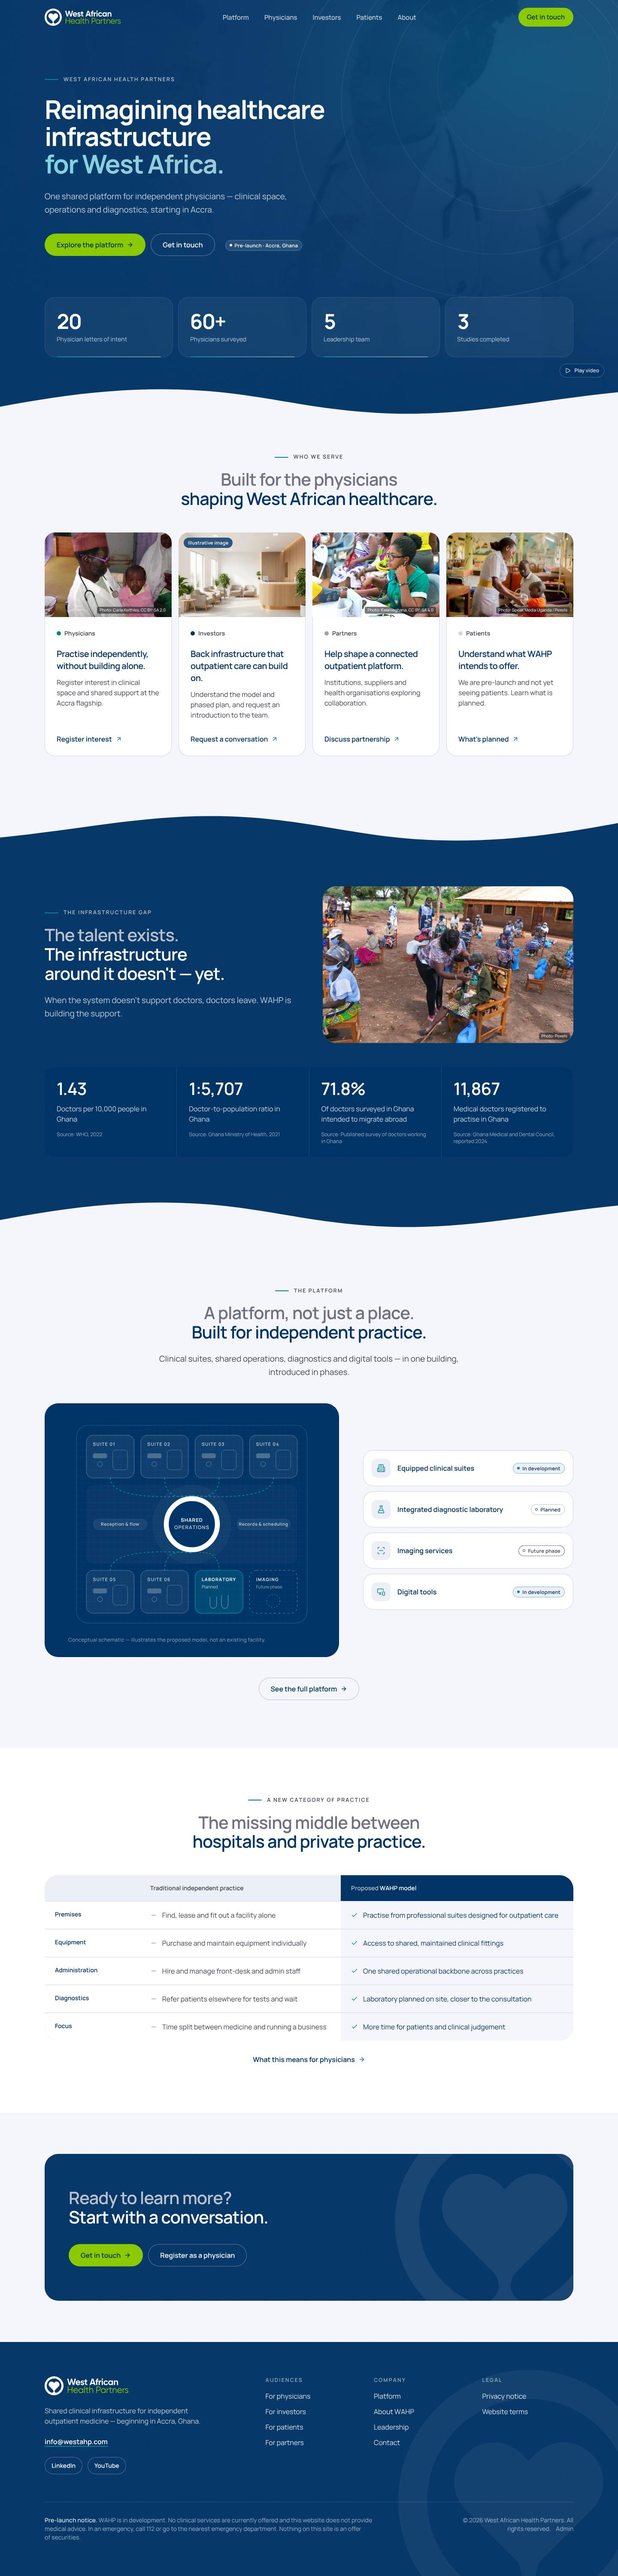
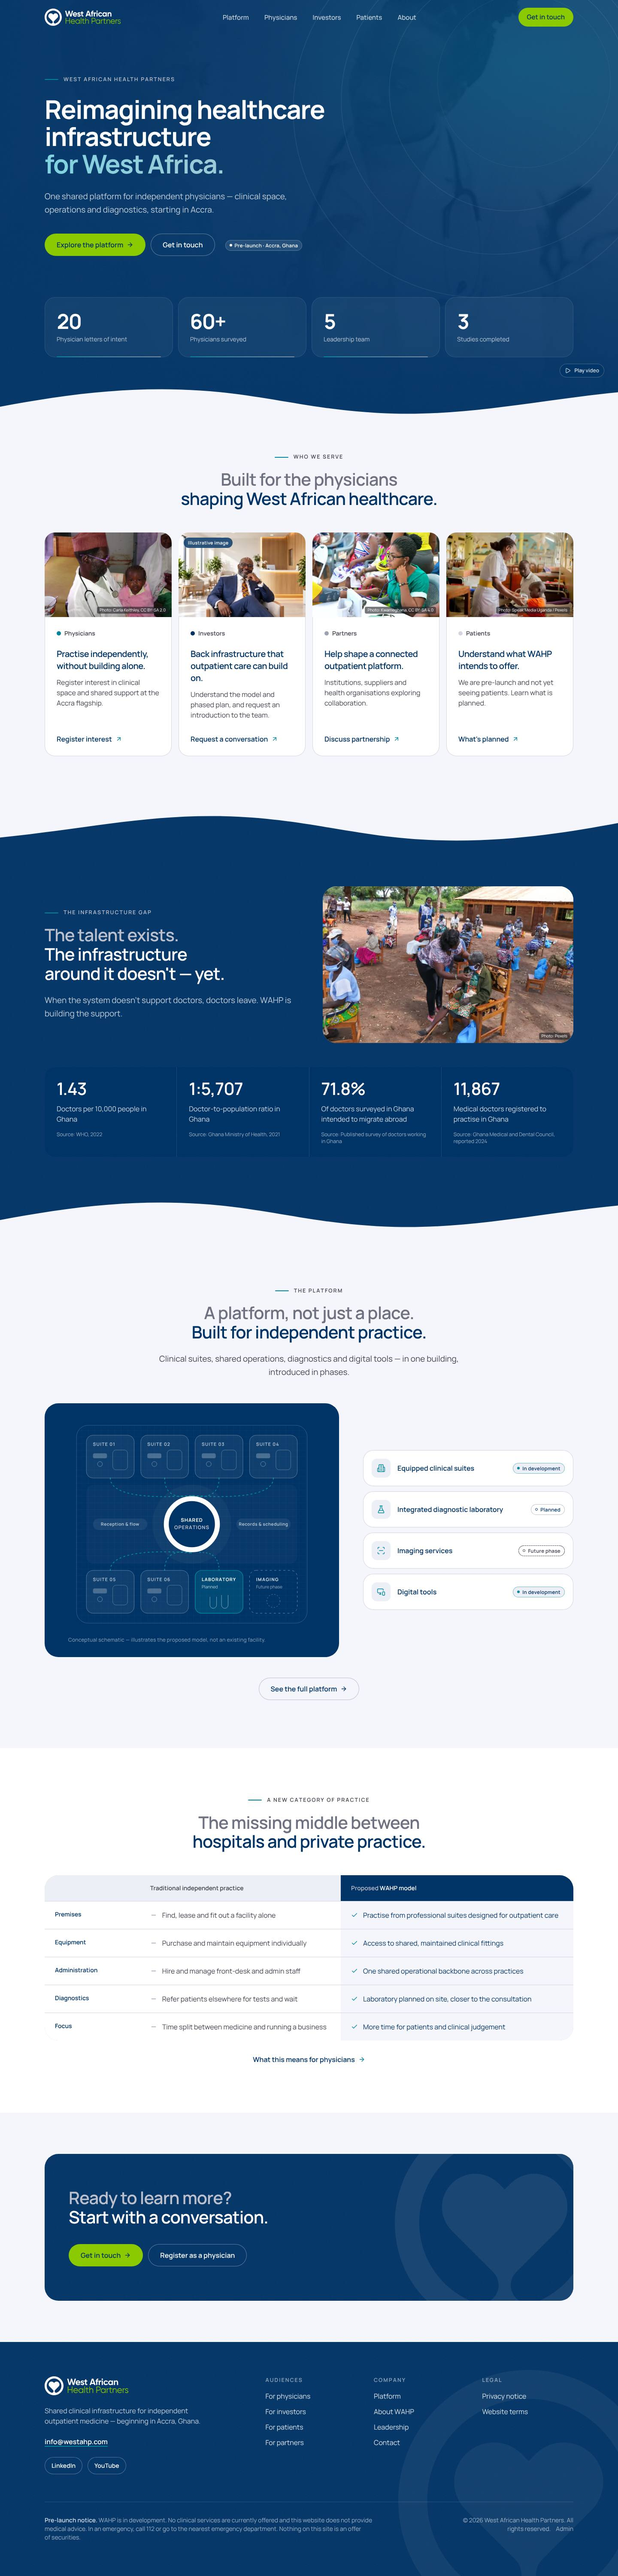
Use the owner's investor image on the Home investors card
Replaces the empty clinic-lobby photo with the owner-supplied image of an
investor in the lounge, badged "Illustrative image". The old
clinic-interior file is removed.

Claude-Session: https://claude.ai/code/session_01HnAJZsQvwk15KduVTL9xGz

Changed region(s): [[0.2812, 0.187, 0.5, 0.2494]]

diff --git a/src/components/ui/site-image.tsx b/src/components/ui/site-image.tsx
@@ -7,7 +7,7 @@ import patientJourney from "../../../public/images/photos/patient-journey.webp";
 import pillarLaboratory from "../../../public/images/photos/pillar-laboratory.webp";
 import pillarImaging from "../../../public/images/photos/pillar-imaging.webp";
 import patientPortrait from "../../../public/images/photos/patient-portrait.webp";
-import clinicInterior from "../../../public/images/photos/clinic-interior.webp";
+import investorLounge from "../../../public/images/photos/investor-lounge.webp";
 import doctorChildConsultation from "../../../public/images/photos/doctor-child-consultation.webp";
 import communityScreening from "../../../public/images/photos/community-bp-screening.webp";
 import clinicBpCheck from "../../../public/images/photos/clinic-bp-check.webp";
@@ -74,10 +74,11 @@ const images = {
     credit: "Photo: Unsplash",
     alt: "An older woman in a kente head wrap and face mask.",
   },
-  clinicInterior: {
-    src: clinicInterior,
+  investorLounge: {
+    src: investorLounge,
     kind: "illustrative",
-    alt: "A calm, light-filled clinic waiting area with a reception desk.",
+    position: "50% 35%",
+    alt: "A smiling man in a navy suit and kente-pattern tie sits in a light-filled clinic lounge with a reception desk behind him.",
   },
 
   doctorChildConsultation: {

diff --git a/src/components/sections/audience-paths.tsx b/src/components/sections/audience-paths.tsx
@@ -14,7 +14,7 @@ const paths = [
   },
   {
     label: "Investors",
-    image: "clinicInterior" as SiteImageName,
+    image: "investorLounge" as SiteImageName,
     title: "Back infrastructure that outpatient care can build on.",
     body: "Understand the model and phased plan, and request an introduction to the team.",
     cta: "Request a conversation",

diff --git a/docs/ASSET_INVENTORY.md b/docs/ASSET_INVENTORY.md
@@ -7,9 +7,10 @@
 | `public/images/concepts/consultation-suite.webp` | Drive `3D Examination room 4k logo.jpeg` (2026-01-01) | As above | Cropped to remove the burned-in logo corner |
 | `public/images/concepts/laboratory.webp` | Drive `3D Laboratory 4k with WAHP logo.jpeg` (2026-01-10) | As above | Cropped to remove the burned-in logo. Depicts a **planned** service |
 | `public/images/team/members/<slug>/photo.webp` (5 headshots, managed by the site admin) | wahp.viewyourprojecthere.com/team (same files as Drive WAHP-Website-Photos) | Owner instruction to copy the founders; consent assumed via owner | Converted to square WebP; source resolutions 296–1080px |
-| `public/images/photos/*.webp` (17 images) | Copied 21 Oct 2026 at the owner's instruction from wahp.viewyourprojecthere.com (15) and westahp.com (2: `patient-portrait`, Unsplash; `clinic-interior`) | **Owner to confirm licences.** Files named only with numbers (e.g. `34747.jpg`, `85710.jpg`) look like stock-library downloads, which may require a licence or attribution. `file_0000…` images look AI-generated | Shown with an "Illustrative image" badge; `founders` is a real photo (no badge); `patient-journey` is a diagram from the new site |
+| `public/images/photos/*.webp` (17 images) | Copied 21 Oct 2026 at the owner's instruction from wahp.viewyourprojecthere.com (15) and westahp.com (2: `patient-portrait`, Unsplash; `clinic-interior`, since replaced by `investor-lounge`) | **Owner to confirm licences.** Files named only with numbers (e.g. `34747.jpg`, `85710.jpg`) look like stock-library downloads, which may require a licence or attribution. `file_0000…` images look AI-generated | Shown with an "Illustrative image" badge; `founders` is a real photo (no badge); `patient-journey` is a diagram from the new site |
 | Ten stock photos, replaced on 21 Oct 2026 at the owner's request: African health workers in community and clinic settings | See the table below | Free licences; credits on `/terms#image-credits` and on each image | Replace the source-site photos that showed doctors |
 | `public/video/hero-clinic.{webm,mp4}`, `hero-clinic-poster.webp` | Owner-supplied video (`gemini_generated_video…mp4`, 21 Oct 2026); appears AI-generated | Owner-supplied for the Home hero; **owner to confirm usage rights** | Re-encoded silent, 1280×720, 30 fps (WebM 0.65 MB, MP4 1.1 MB); shown under a navy overlay with a pause control. People shown are not WAHP staff or patients |
+| `public/images/photos/investor-lounge.webp` | Owner-supplied 21 Oct 2026; appears AI-generated (a figure added to the `clinic-interior` lobby) | **Owner to confirm usage rights** | Home investors card, shown with an "Illustrative image" badge. Not a real WAHP investor or facility |
 | West Africa map outlines (`src/components/graphics/west-africa-map-data.ts`) | Natural Earth 1:50m via `world-atlas@2.0.2` (ISC); generated by `scripts/gen-west-africa-map.mjs` | Public domain | Simplified, equirectangular; used by the Investors expansion map |
 | Inline SVG graphics (`src/components/graphics/*`) | Original work for this build | WAHP | Labelled conceptual |
 | Manrope font | `@fontsource-variable/manrope` | SIL Open Font License 1.1 | Self-hosted |
@@ -42,8 +43,8 @@
 | `community-outreach.webp` | Pexels 4483695 | Pexels licence | Pexels contributor (name to confirm) |
 | `physician-laptop.webp` | Pexels 4989179 | Pexels licence | Pexels contributor (name to confirm) |
 
-**Removed** (replaced by the photos above): the source-site photos `physician-consultation`, `clinic-conversation`, `pillar-suites`, `pillar-digital`, `patient-checkup`, `hospital-corridor`, `physician-with-patient`, `diaspora-physician`, `investor-banner`, `family-consultation` and `partners-meeting` (Home investors card now uses `clinic-interior`). Later, `doctor-labcoat-kinshasa` was replaced by `doctor-stethoscope` in the Physicians diaspora section.
+**Removed** (replaced by the photos above): the source-site photos `physician-consultation`, `clinic-conversation`, `pillar-suites`, `pillar-digital`, `patient-checkup`, `hospital-corridor`, `physician-with-patient`, `diaspora-physician`, `investor-banner`, `family-consultation` and `partners-meeting` (the Home investors card used `clinic-interior`, now replaced by the owner-supplied `investor-lounge`). Later, `doctor-labcoat-kinshasa` was replaced by `doctor-stethoscope` in the Physicians diaspora section.
 
-**Kept from the source sites (no doctor shown):** `pillar-laboratory`, `pillar-imaging` (technologist), `clinic-interior`, `founders`, `patient-journey`.
+**Kept from the source sites (no doctor shown):** `pillar-laboratory`, `pillar-imaging` (technologist), `founders`, `patient-journey`.
 
 **Not used:** stock photos showing identifiable public figures or named individuals (for example, a UK minister's hospital visit and a profile photo of a named Korle Bu nurse), and US military surgical-mission photos.

diff --git a/docs/IMPLEMENTATION_LOG.md b/docs/IMPLEMENTATION_LOG.md
@@ -133,3 +133,7 @@
   3. The Accra, Ghana and West Africa rings settle in, and a soft ripple keeps pulsing from Accra.
 - It plays once when it scrolls into view. Without JS, or with reduced motion, it shows the final state. Pure CSS, no new runtime dependencies.
 - Map data is Natural Earth 1:50m (public domain) via world-atlas, projected and simplified to 16.5 KB by `scripts/gen-west-africa-map.mjs`. Kumasi was added to the claims register (`expansion-kumasi`) on the owner's instruction. `regional-rings.tsx` was removed.
+
+## 21 Oct 2026, investors card image
+
+- The Home investors card now uses the owner-supplied `investor-lounge` image, shown with the "Illustrative image" badge. It replaces `clinic-interior`, which was removed.
